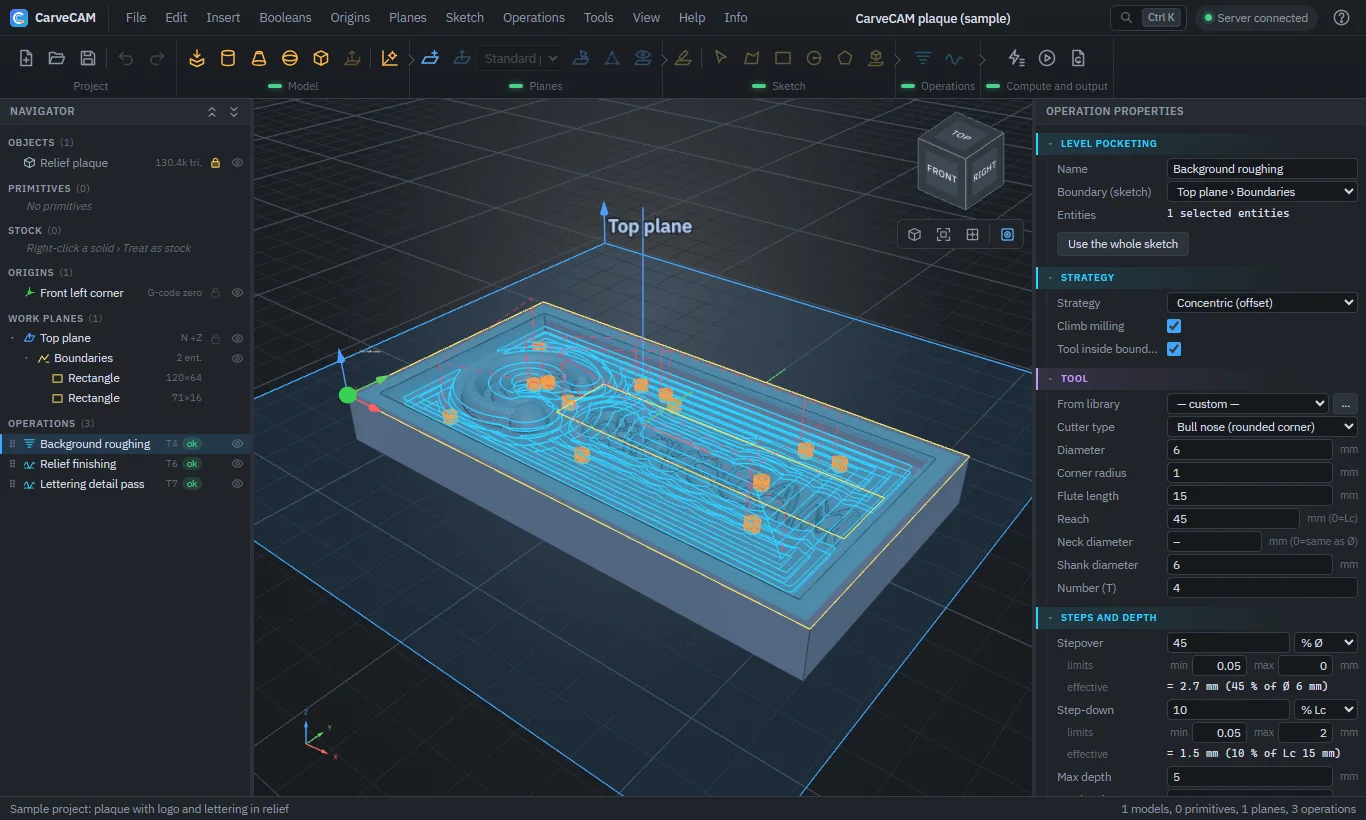
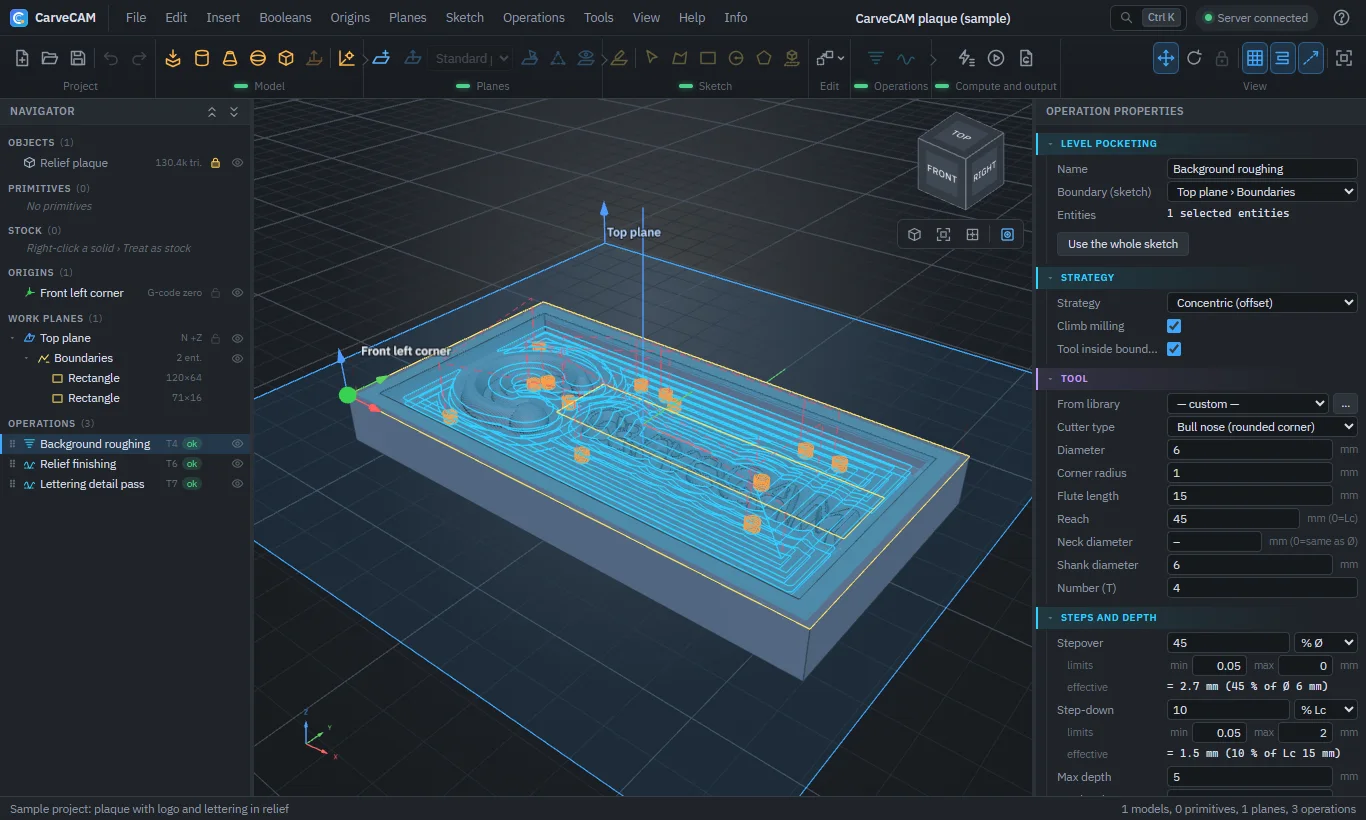
Guida, README e schermate dei comandi di modifica

diff --git a/src/CarveCAM.Server/wwwroot/js/guide-pages.js b/src/CarveCAM.Server/wwwroot/js/guide-pages.js
@@ -73,9 +73,10 @@ export function guidePages() {
           S(2, L('<b>Modello</b>: importa, artefatti, sposta origine.', '<b>Model</b>: import, primitives, move origin.')),
           S(3, L('<b>Piani</b>: aggiungi piano e i modi per crearlo.', '<b>Planes</b>: add plane and the ways to create it.')),
           S(4, L('<b>Sketch</b>: nuovo sketch e strumenti di disegno.', '<b>Sketch</b>: new sketch and drawing tools.')),
-          S(5, L('<b>Lavorazioni</b>: svuotatura e finitura.', '<b>Operations</b>: pocketing and finishing.')),
-          S(6, L('<b>Calcolo e uscita</b>: ricalcola tutto, simula tutto, G-code.', '<b>Compute and output</b>: recompute all, simulate all, G-code.')),
-          S(7, L('<b>Vista</b>: manipolatore, blocco, griglia, percorsi, rapidi, adatta.', '<b>View</b>: gizmo, lock, grid, paths, rapids, fit.')),
+          S(5, L('<b>Modifica</b>: sposta, ruota, copia, scala smart e serie (con la finestra stretta, in un solo pulsante con menu).', '<b>Edit</b>: move, rotate, copy, smart scale and arrays (in a narrow window, in a single button with a menu).')),
+          S(6, L('<b>Lavorazioni</b>: svuotatura e finitura.', '<b>Operations</b>: pocketing and finishing.')),
+          S(7, L('<b>Calcolo e uscita</b>: ricalcola tutto, simula tutto, G-code.', '<b>Compute and output</b>: recompute all, simulate all, G-code.')),
+          S(8, L('<b>Vista</b>: manipolatore, blocco, griglia, percorsi, rapidi, adatta.', '<b>View</b>: gizmo, lock, grid, paths, rapids, fit.')),
         ]),
         tip(L('Un comando spento non è utilizzabile in quel momento: passa sopra con il mouse e il suggerimento dice perché (per esempio "Premi prima Aggiungi piano"). Con {{Ctrl+K}} trovi qualunque comando scrivendone il nome.',
           'A greyed-out command cannot be used right now: hover it and the tooltip tells you why (for example "Press Add plane first"). With {{Ctrl+K}} you find any command by typing its name.')),
@@ -178,6 +179,40 @@ export function guidePages() {
         art('island'),
         p(L('Un contorno dentro un altro diventa un\'<b>isola</b> che non viene lavorata. Per lavorare solo alcune entità selezionale con {{Ctrl}}+clic prima di creare la lavorazione: il progetto di esempio usa così il rettangolo della scritta.',
           'An outline inside another becomes an <b>island</b> that is not machined. To machine only some entities, select them with {{Ctrl}}+click before creating the operation: the sample project uses the lettering rectangle this way.')),
+      ],
+    },
+    {
+      id: 'modify', icon: 'xfMove', title: L('Modificare: sposta, ruota, copia, scala, serie', 'Editing: move, rotate, copy, scale, arrays'), nav: L('Modifica', 'Editing'),
+      blocks: [
+        p(L('I comandi del gruppo <b>Modifica</b> agiscono sulla selezione: le <b>entità di uno sketch</b> (quelle selezionate, oppure tutte con lo sketch selezionato o in modifica), che restano nel loro piano, oppure gli <b>elementi 3D</b>: oggetti, artefatti, piani con i loro sketch e punti di origine.',
+          'The commands of the <b>Edit</b> group work on the selection: the <b>entities of a sketch</b> (the selected ones, or all of them with the sketch selected or being edited), which stay in their plane, or the <b>3D items</b>: objects, primitives, planes with their sketches and origin points.')),
+        grid([
+          { icon: 'xfMove', title: L('Sposta {{Shift+M}}', 'Move {{Shift+M}}'), html: L('punto base e punto di arrivo, oppure lo spostamento o la distanza scritti', 'base point and destination point, or the typed displacement or distance') },
+          { icon: 'xfRotate', title: L('Ruota {{Shift+R}}', 'Rotate {{Shift+R}}'), html: L('centro e due direzioni, oppure l\'angolo scritto; nel 3D attorno a Z, X o Y', 'centre and two directions, or the typed angle; in 3D about Z, X or Y') },
+          { icon: 'xfCopy', title: L('Copia {{Shift+C}}', 'Copy {{Shift+C}}'), html: L('come Sposta, lasciando l\'originale: ogni clic aggiunge una copia', 'like Move, keeping the original: each click adds a copy') },
+          { icon: 'xfScale', title: L('Scala smart {{Shift+S}}', 'Smart scale {{Shift+S}}'), html: L('scegli un riferimento e scrivi la misura che deve avere', 'pick a reference and type the length it must have') },
+          { icon: 'xfArrayRect', title: L('Serie rettangolare {{Shift+A}}', 'Rectangular array {{Shift+A}}'), html: L('colonne e righe (e livelli nel 3D) con il passo', 'columns and rows (and levels in 3D) with their spacing') },
+          { icon: 'xfArrayPolar', title: L('Serie polare {{Shift+P}}', 'Polar array {{Shift+P}}'), html: L('copie in cerchio attorno a un centro, ruotate o no', 'copies in a circle around a centre, rotated or not') },
+        ]),
+        p(L('Un pannello in basso nella vista dice cosa fare e raccoglie i valori; l\'anteprima segue il puntatore e i punti si agganciano ai vertici (nello sketch anche alla griglia). {{Invio}} applica, {{Backspace}} torna al passo precedente, {{Esc}} annulla. Ogni modifica si annulla con {{Ctrl+Z}}.',
+          'A panel at the bottom of the view tells you what to do and collects the values; the preview follows the pointer and points snap to vertices (in a sketch also to the grid). {{Enter}} applies, {{Backspace}} goes back a step, {{Esc}} cancels. Every change is undone with {{Ctrl+Z}}.')),
+        h3(L('Scala smart', 'Smart scale')),
+        shot('modify', [
+          S(1, L('Il <b>pannello</b> dice cosa fare: qui, scrivere la misura finale del riferimento.', 'The <b>panel</b> tells you what to do: here, type the final length of the reference.')),
+          S(2, L('<b>Riferimento</b> attuale, <b>nuova misura</b>, <b>fattore</b> calcolato e <b>punto fisso</b>.', 'Current <b>reference</b>, <b>new length</b>, computed <b>factor</b> and <b>fixed point</b>.')),
+          S(3, L('Nella vista: il riferimento in arancione, il punto fisso in giallo e l\'<b>anteprima</b> in azzurro.', 'In the view: the reference in orange, the fixed point in yellow and the <b>preview</b> in light blue.')),
+        ], L('Scala smart del rettangolo della scritta nel progetto di esempio', 'Smart scale of the lettering rectangle in the sample project')),
+        steps([
+          { icon: 'xfScale', html: L('Clic su un <b>segmento</b> dello sketch o un <b>bordo</b> del solido, oppure su due punti: è il riferimento (il bordo di un cerchio vale il diametro).', 'Click a <b>segment</b> of the sketch or an <b>edge</b> of the solid, or two points: that is the reference (the edge of a circle counts as its diameter).') },
+          { icon: 'rename', html: L('Scrivi la <b>misura finale</b> e premi {{Invio}}: il fattore di scala si calcola da solo. Resta fermo l\'estremo più vicino al clic, oppure il centro della selezione.', 'Type the <b>final length</b> and press {{Enter}}: the scale factor is worked out for you. The end nearest to the click stays put, or the centre of the selection.') },
+        ]),
+        tip(L('Per portare un modello importato alla misura giusta: Scala smart, clic su uno spigolo di cui conosci la lunghezza, scrivi la misura vera.', 'To bring an imported model to the right size: Smart scale, click an edge whose length you know, type the real length.')),
+        ul([
+          L('Con {{Maiusc}} lo spostamento resta lungo un asse e la rotazione procede a passi di 15°.', 'With {{Shift}} the move stays along an axis and the rotation goes in 15° steps.'),
+          L('Gli elementi bloccati non si spostano né si scalano, ma si possono copiare. Copie e serie restano selezionate.', 'Locked items cannot be moved or scaled, but they can be copied. Copies and arrays stay selected.'),
+          L('Un rettangolo ruotato di un angolo che non è multiplo di 90° diventa una polilinea.', 'A rectangle rotated by an angle that is not a multiple of 90° becomes a polyline.'),
+        ]),
+        act([show('[data-group="modify"]', L('Mostrami il gruppo Modifica', 'Show me the Edit group'))]),
       ],
     },
     {

diff --git a/README.md b/README.md
@@ -98,7 +98,8 @@ samples/blocco-L.stp                        STEP di prova (blocco a L con gradin
   Calcolo e uscita; una spia sotto ogni fase indica se è completata (verde) o in corso (gialla). I comandi non
   utilizzabili nel contesto corrente sono spenti (il suggerimento dice perché): durante la creazione di un piano
   e con un piano selezionato sono spenti i comandi *Modello*; durante il disegno di uno sketch anche quelli
-  delle *Lavorazioni*.
+  delle *Lavorazioni*. Il gruppo *Modifica* raccoglie i comandi di modifica; quando la finestra è stretta si
+  riduce a un solo pulsante con menu, prima che la barra nasconda il gruppo *Vista*.
 - **Caricamento:** all'avvio e durante calcoli, aperture e importazioni compare il logo animato (la fresa scava
   la passata interna e poi la "C"), con la fase in corso e, dopo 2 s, il tempo trascorso; con il movimento
   ridotto attivo nel sistema il logo resta fermo e pulsa.
@@ -140,6 +141,34 @@ samples/blocco-L.stp                        STEP di prova (blocco a L con gradin
   sui piazzamenti GRBL, con le istruzioni di azzeramento nei commenti).
 - Nelle scelte di punti nella vista (piano da 3 punti, origini) il cursore **si aggancia ai vertici visibili**
   di solidi, sketch e piani vicini, indicati da un pallino arancione.
+
+### Comandi di modifica
+
+Sposta, Ruota, Copia, Scala smart, Serie rettangolare e Serie polare (gruppo *Modifica* della barra, menu
+*Modifica*, tasto destro, **Maiusc+M / R / C / S / A / P**) agiscono sulla selezione: le **entità di uno sketch**
+(quelle selezionate, oppure tutte con lo sketch selezionato o in modifica), che si trasformano nel piano, oppure
+gli **elementi 3D** (oggetti, artefatti, piani con i loro sketch, punti di origine). Un pannello in basso nella
+vista indica il passo da fare e raccoglie i valori scritti; l'anteprima segue il puntatore e i punti si agganciano
+ai vertici (nello sketch anche alla griglia). **Invio** applica, **Backspace** torna al passo precedente, **Esc**
+annulla; ogni modifica è un passo di annullamento.
+
+- **Sposta:** punto base e punto di arrivo, oppure ΔX ΔY ΔZ (ΔU ΔV nello sketch) scritti, oppure la distanza
+  nella direzione del cursore; **Maiusc** vincola lo spostamento all'asse principale.
+- **Ruota:** centro, direzione di partenza e nuova direzione, oppure l'angolo scritto (senza centro: il centro
+  della selezione). Gli elementi 3D ruotano attorno a Z, X o Y; **Maiusc** procede a passi di 15°. Un rettangolo
+  ruotato di un angolo che non è multiplo di 90° diventa una polilinea.
+- **Copia:** come Sposta, ma lascia l'originale; i clic successivi aggiungono altre copie dallo stesso punto base
+  e *Copie in fila* ripete lo spostamento più volte.
+- **Scala smart:** clic su un **segmento** dello sketch, un **bordo** di un solido o due punti: è il
+  riferimento. Si scrive la **misura finale** che deve avere e il fattore di scala si calcola da solo (si può
+  scrivere anche il fattore). Resta fermo l'estremo del riferimento più vicino al clic (il primo punto, il centro
+  per il diametro di un cerchio) oppure il centro della selezione. Scala uniforme: per gli oggetti cambia la
+  scala, per gli artefatti le misure, per i piani il lato e i loro sketch.
+- **Serie rettangolare:** colonne, righe (e livelli per il 3D) con il passo, proposto dall'ingombro.
+- **Serie polare:** centro, numero di elementi, angolo totale (360° li distribuisce sul giro intero), copie
+  ruotate oppure solo spostate.
+
+Gli elementi bloccati non si spostano, ruotano o scalano; si possono copiare. Copie e serie restano selezionate.
 
 ### Elementi bloccati
 
